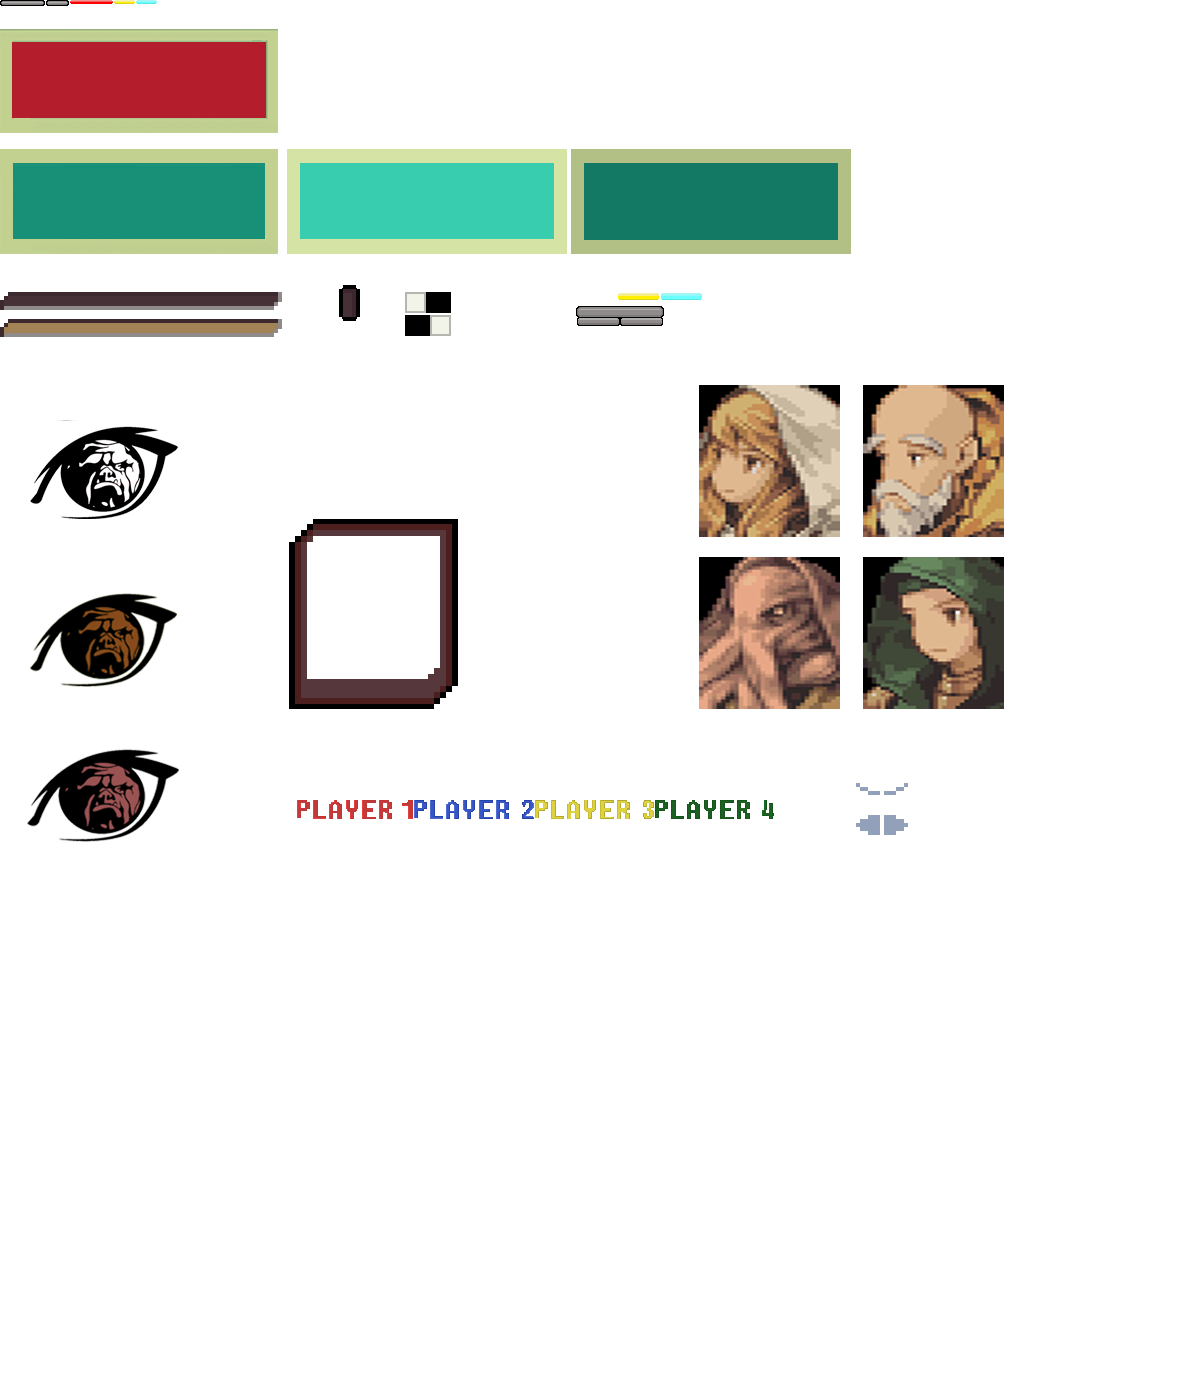
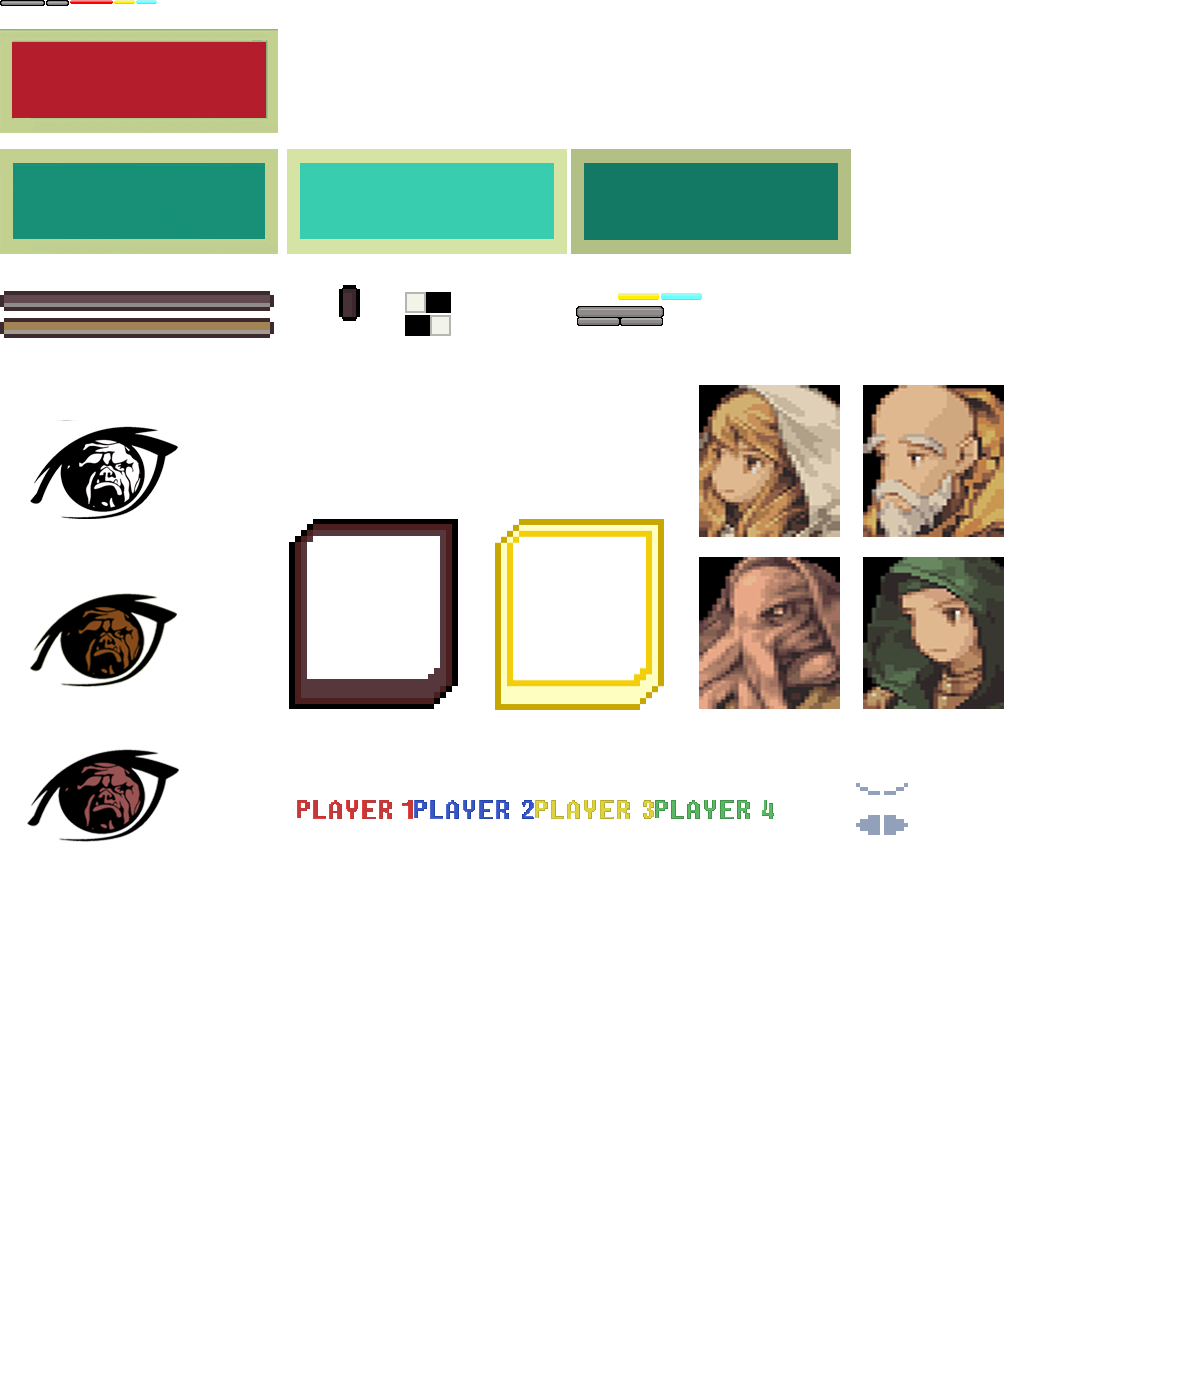
Player marks now change when selecting champ

Changed region(s): [[0.4008, 0.3686, 0.555, 0.5221], [0.0, 0.1843, 0.2467, 0.2457], [0.555, 0.5529, 0.6475, 0.5836]]

diff --git a/FantasyBrawl_Project/Motor2D/j1UIScene.cpp b/FantasyBrawl_Project/Motor2D/j1UIScene.cpp
@@ -254,10 +254,10 @@ bool j1UIScene::Start()
 
 
 		//PLAYER QUADS
-		UI_element* player1_quad = App->gui->createImageFromAtlas(40, 3, { 288, 518, 170,191 }, this);
-		UI_element* player2_quad = App->gui->createImageFromAtlas(40, 194, { 288, 518, 170,191 }, this);
-		UI_element* player3_quad = App->gui->createImageFromAtlas(40, 385, { 288, 518, 170,191 }, this);
-		UI_element* player4_quad = App->gui->createImageFromAtlas(40, 576, { 288, 518, 170,191 }, this);
+		player1_quad = App->gui->createImageFromAtlas(40, 3, { 288, 518, 170,191 }, this);
+		player2_quad = App->gui->createImageFromAtlas(40, 194, { 288, 518, 170,191 }, this);
+		player3_quad = App->gui->createImageFromAtlas(40, 385, { 288, 518, 170,191 }, this);
+		player4_quad = App->gui->createImageFromAtlas(40, 576, { 288, 518, 170,191 }, this);
 
 		//PLAYER TEXTS
 		UI_element* player1_text = App->gui->createImageFromAtlas(60, 166, { 296, 799, 117, 20 }, this);
@@ -1061,10 +1061,7 @@ bool j1UIScene::Update(float dt)
 
 	}
 
-	//if (champ_selected[0] && passing2 && passing3 && passing4)//JUST BY NOW, WHEN PLAYERS CAN CONFIRM CHANGE FOR PLAYER_SELECT
-	//{
-	//	ready->function = INGAME;
-	//}
+	
 
 	for (int i = 0; i < MAX_GAMEPADS; ++i)
 	{

diff --git a/FantasyBrawl_Project/Motor2D/j1Gui.cpp b/FantasyBrawl_Project/Motor2D/j1Gui.cpp
@@ -326,11 +326,32 @@ bool j1Gui::PreUpdate()
 					{
 					App->ui_scene->champ_selected[i] = true;
 					App->audio->PlayFx(App->audio->fxConfirmChamp);
+
+					if (i == 0)
+						App->ui_scene->player1_quad->section = { 494, 518, 170,191 };
+					if (i == 1)
+						App->ui_scene->player2_quad->section = { 494, 518, 170,191 };
+					if (i == 2)
+						App->ui_scene->player3_quad->section = { 494, 518, 170,191 };
+					if (i == 3)
+						App->ui_scene->player4_quad->section = { 494, 518, 170,191 };
+					
 					}
 					else if (App->ui_scene->champ_selected[i] == true && App->input->GetButton((PLAYER)i, SDL_CONTROLLER_BUTTON_B) == BUTTON_DOWN)
 					{
 						App->ui_scene->champ_selected[i] = false;
 						App->audio->PlayFx(App->audio->fxCancelChamp);
+
+						if (i == 0)
+							App->ui_scene->player1_quad->section = { 288, 518, 170,191 };
+						if (i == 1)
+							App->ui_scene->player1_quad->section = { 288, 518, 170,191 };
+						if (i == 2)
+							App->ui_scene->player1_quad->section = { 288, 518, 170,191 };
+						if (i == 3)
+							App->ui_scene->player1_quad->section = { 288, 518, 170,191 };
+
+						
 					}
 				}
 			}

diff --git a/FantasyBrawl_Project/Motor2D/j1UIScene.h b/FantasyBrawl_Project/Motor2D/j1UIScene.h
@@ -187,6 +187,12 @@ public:
 	Slider* fx_slider = nullptr;
 	Slider* music_sliderMM = nullptr;
 	Slider* fx_sliderMM = nullptr;
+
+	//marks
+	UI_element* player1_quad = nullptr;
+	UI_element* player2_quad = nullptr;
+	UI_element* player3_quad = nullptr;
+	UI_element* player4_quad = nullptr;
 	
 	//timer
 	UI_element* timer = nullptr;
